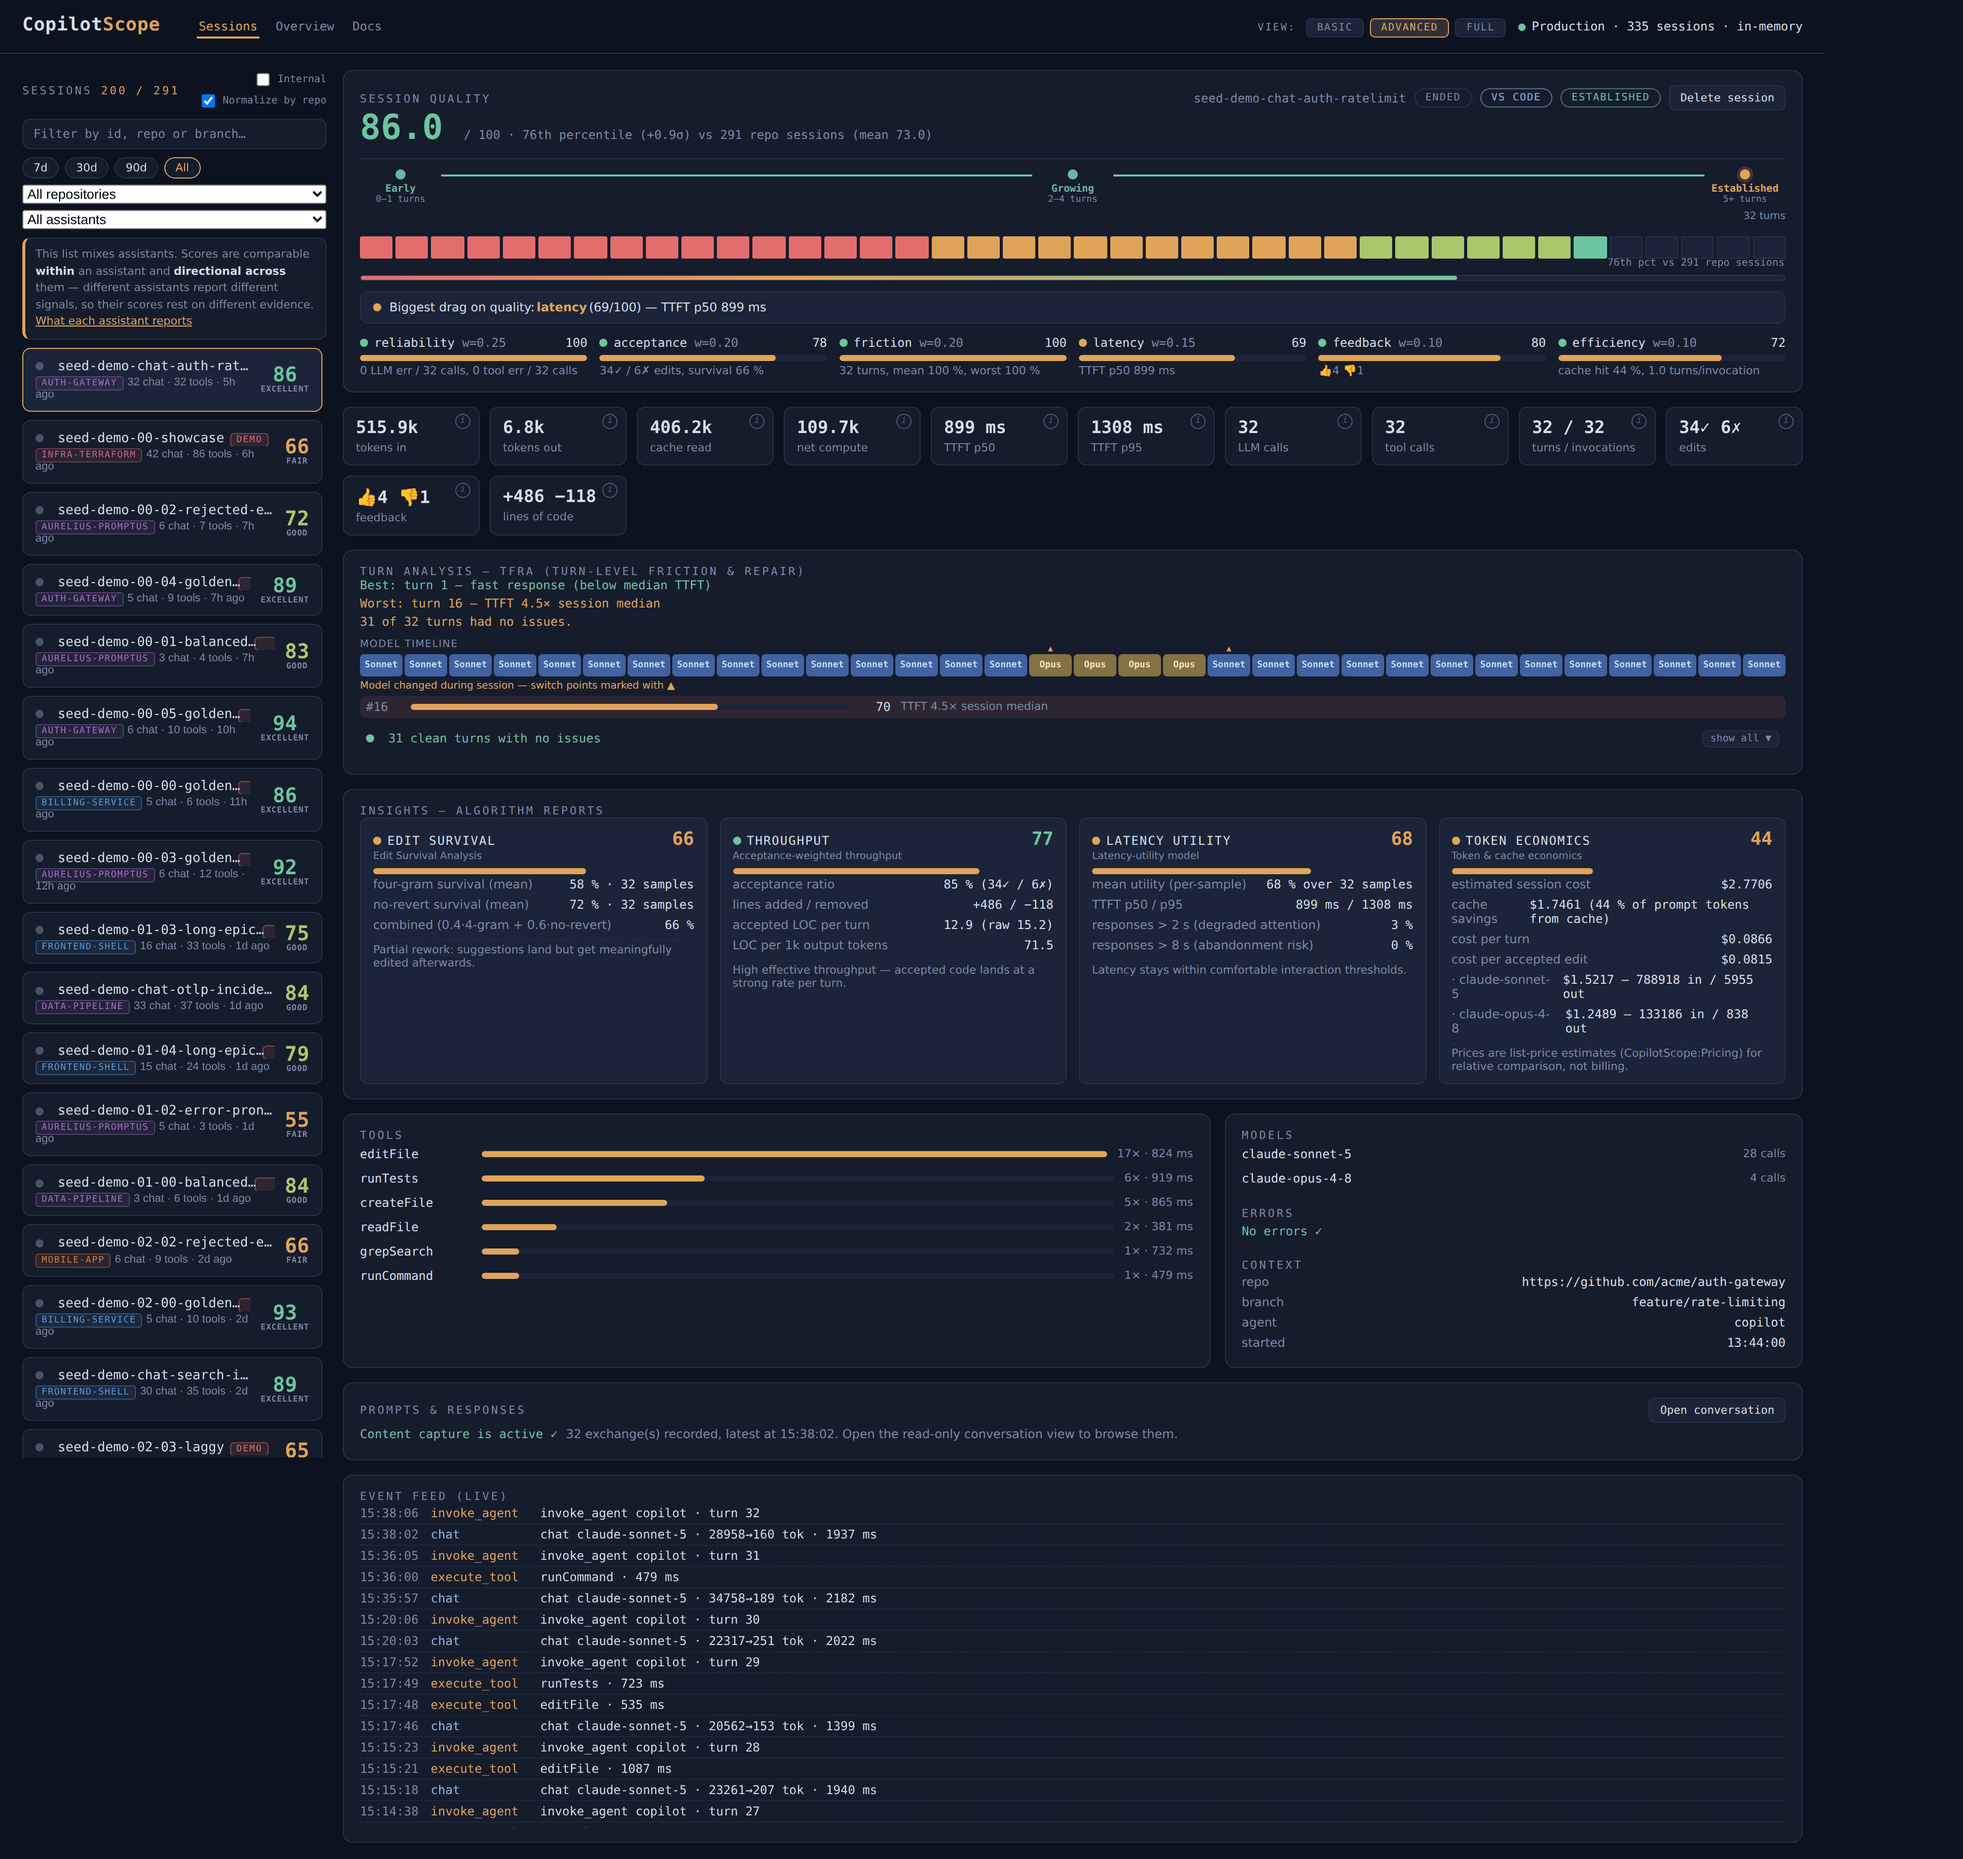
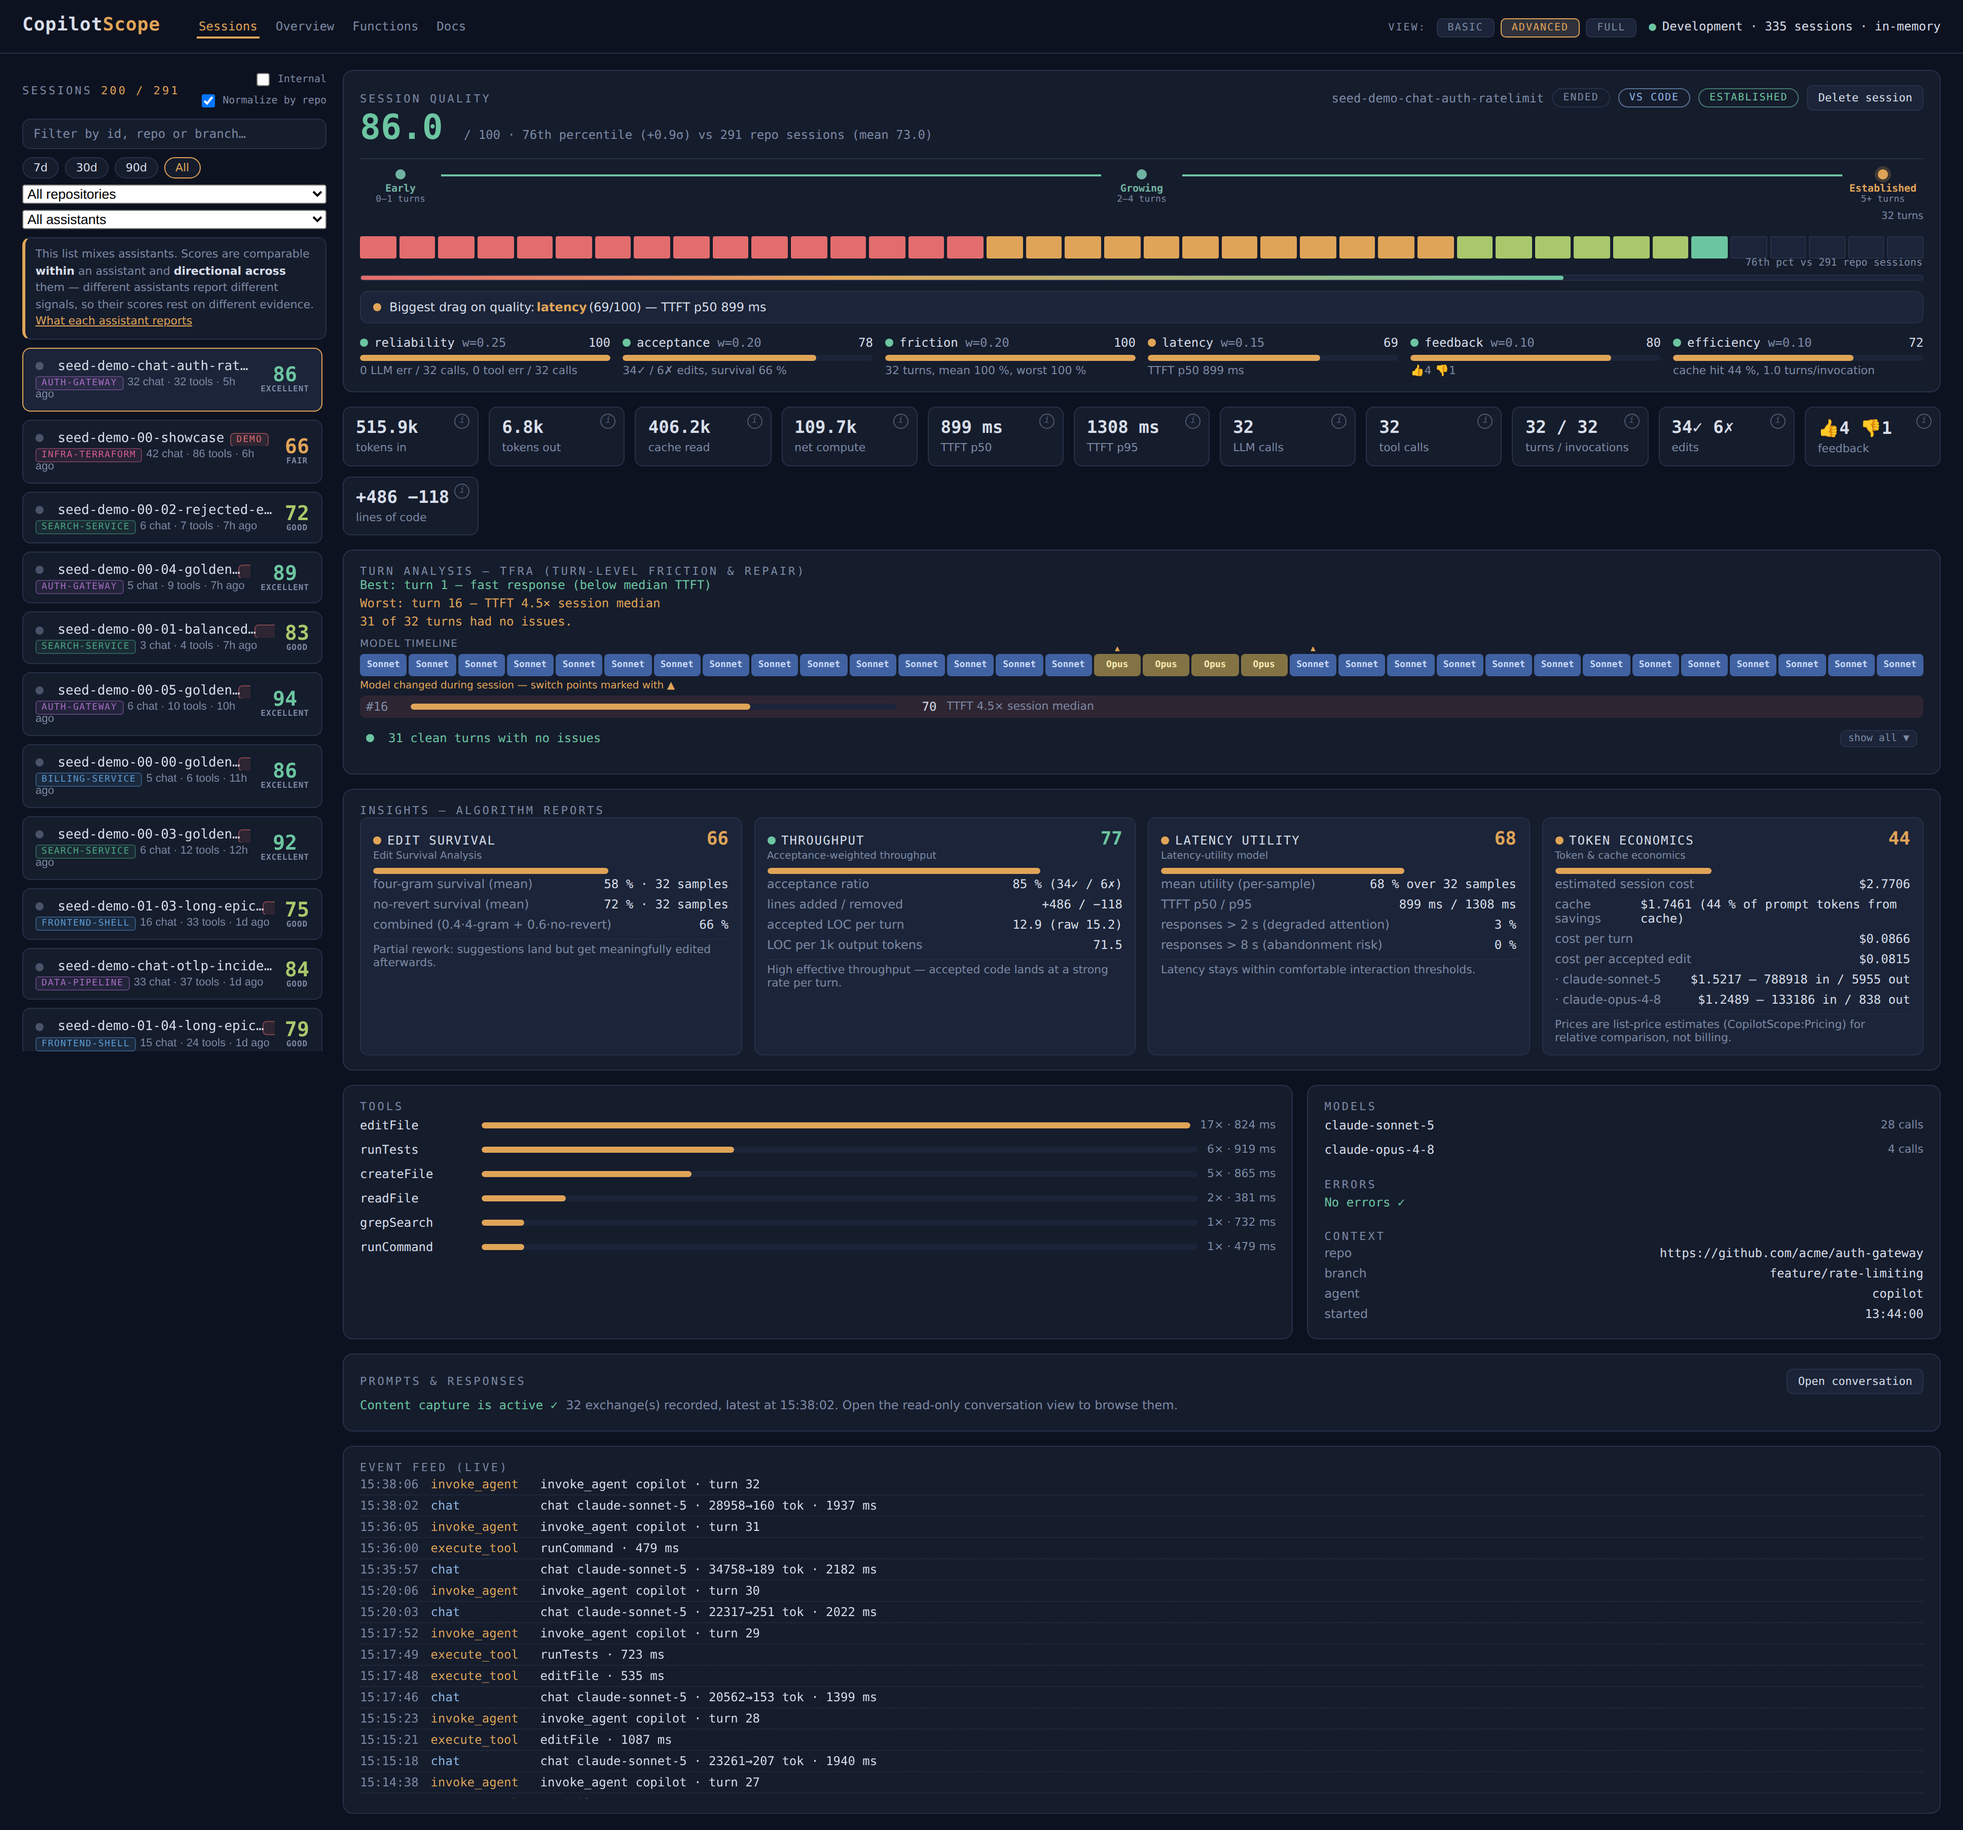
demo: name only invented projects in the demo data and its screenshots (#167)
The seeder and the telemetry generator named one of their pretend
repositories after a project that is not part of CopilotScope. The pool
entry is now acme/search-service, and the three screenshots that showed
the old name are retaken from the same seeded dataset (demo, 60 days,
seed 42), so every figure in them is the same.

Claude-Session: https://claude.ai/code/session_01MixEYaeDAhU3ZFeDV16PNy

diff --git a/tools/CopilotScope.TelemetryGen/Program.cs b/tools/CopilotScope.TelemetryGen/Program.cs
@@ -140,7 +140,7 @@ for (var turn = 1; turn <= 5; turn++)
             ("gen_ai.agent.name", "copilot"),
             ("gen_ai.conversation.id", conversationId),
             ("gen_ai.request.model", model),
-            ("github.copilot.git.repository", "https://github.com/example/aurelius-promptus"),
+            ("github.copilot.git.repository", "https://github.com/example/search-service"),
             ("github.copilot.git.branch", "feature/otel-dashboard"),
             ("copilot_chat.turn_count", 2L)
         ]));

diff --git a/tools/CopilotScope.Seeder/Fixtures.cs b/tools/CopilotScope.Seeder/Fixtures.cs
@@ -13,7 +13,7 @@ public static class Fixtures
 
     public static readonly string[] Repositories =
     [
-        "https://github.com/acme/aurelius-promptus",
+        "https://github.com/acme/search-service",
         "https://github.com/acme/billing-service",
         "https://github.com/acme/frontend-shell",
         "https://github.com/acme/infra-terraform",

diff --git a/CHANGELOG.md b/CHANGELOG.md
@@ -100,6 +100,12 @@ also publishes five images to GHCR: `ghcr.io/konradcinkusz/copilotscope-collecto
   The review pack still carries no agent name.
 
 ### Fixed
+- **The demo data and its screenshots name only invented projects.** The seeder and the telemetry
+  generator called one of their pretend repositories after a project that is not part of
+  CopilotScope; the entry is now `acme/search-service`. The three screenshots that showed the
+  old name (Sessions, Overview, one session in the Advanced view) are retaken from the same
+  seeded dataset (`copilotscope demo demo --days 60`, seed 42), so every figure in them is
+  unchanged.
 - **`copilotscope` no longer writes outside `~/.copilotscope`, and its first start no longer
   warns about unencrypted keys.** ASP.NET Core kept the keys that protect the dashboard's
   antiforgery tokens and Blazor circuits in `~/.aspnet/DataProtection-Keys`. Deleting
